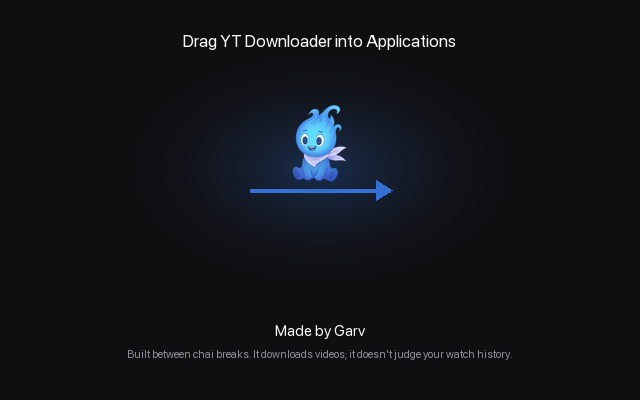
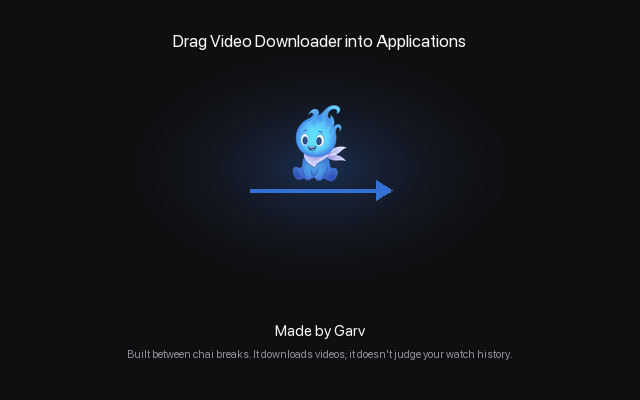
1.4.0: rename to Video Downloader

Changed region(s): [[0.25, 0.09, 0.75, 0.12]]

diff --git a/web/app.js b/web/app.js
@@ -678,7 +678,7 @@ function renderSettings() {
   <div class="card" id="updCard"></div>
   <div class="card about">
     <img src="mascot-still.png" alt="" width="44" height="65">
-    <div><h3>YT Downloader ${esc(sys.version || "")}</h3><p>Made by Garv. Built between chai breaks.</p></div>
+    <div><h3>Video Downloader ${esc(sys.version || "")}</h3><p>Made by Garv. Built between chai breaks.</p></div>
   </div>`;
   if (upd) renderUpdate();
   renderAccount();

diff --git a/web/index.html b/web/index.html
@@ -3,7 +3,7 @@
 <head>
 <meta charset="utf-8">
 <meta name="viewport" content="width=device-width, initial-scale=1">
-<title>Downloader</title>
+<title>Video Downloader</title>
 <link rel="icon" href="icon-64.png">
 <link rel="preconnect" href="https://fonts.googleapis.com">
 <link rel="preconnect" href="https://fonts.gstatic.com" crossorigin>

diff --git a/ytd/appupdate.py b/ytd/appupdate.py
@@ -139,7 +139,7 @@ def _download(asset, dest):
 
 
 def _app_bundle():
-    # .../YT Downloader.app/Contents/MacOS/YT Downloader
+    # .../Video Downloader.app/Contents/MacOS/Video Downloader
     return Path(sys.executable).resolve().parents[2]
 
 
@@ -161,12 +161,14 @@ def _install_mac(dmg, version, work):
     _step("App identity", info.get("CFBundleIdentifier") == BUNDLE_ID, info.get("CFBundleIdentifier", "?"))
     _step("App version", info.get("CFBundleShortVersionString") == version, info.get("CFBundleShortVersionString", "?"))
 
-    target = _app_bundle()
+    old = _app_bundle()
+    # Same folder, the new release's name (handles the YT -> Video Downloader rename).
+    target = old.parent / new.name
     script = work / "swap.sh"
     script.write_text(f"""#!/bin/bash
 while kill -0 {os.getpid()} 2>/dev/null; do sleep 0.2; done
-rm -rf "{target}.old" && mv "{target}" "{target}.old" && ditto "{new}" "{target}" && rm -rf "{target}.old" \\
-  || {{ rm -rf "{target}"; mv "{target}.old" "{target}"; }}
+mv "{old}" "{old}.old" && ditto "{new}" "{target}" && rm -rf "{old}.old" \\
+  || {{ rm -rf "{target}"; mv "{old}.old" "{old}"; }}
 open "{target}"
 rm -rf "{work}"
 """)

diff --git a/packaging/make_art.py b/packaging/make_art.py
@@ -63,7 +63,7 @@ def dmg(scale):
     d.line((250 * scale, y, 390 * scale, y), fill=BLUE + (255,), width=4 * scale)
     d.polygon([(392 * scale, y), (376 * scale, y - 10 * scale), (376 * scale, y + 10 * scale)], fill=BLUE + (255,))
     paste_mascot(img, 84 * scale, 320 * scale, y - 8 * scale)
-    d.text((w / 2, 40 * scale), "Drag YT Downloader into Applications", font=font(17 * scale), fill=(250, 250, 250), anchor="mm")
+    d.text((w / 2, 40 * scale), "Drag Video Downloader into Applications", font=font(17 * scale), fill=(250, 250, 250), anchor="mm")
     d.text((w / 2, 330 * scale), "Made by Garv", font=font(15 * scale, True), fill=(250, 250, 250), anchor="mm")
     d.text((w / 2, 354 * scale), "Built between chai breaks. It downloads videos; it doesn't judge your watch history.",
            font=font(11 * scale), fill=(142, 142, 152), anchor="mm")

diff --git a/ytd/settings.py b/ytd/settings.py
@@ -32,7 +32,7 @@ _lock = threading.Lock()
 # macOS asks permission before any app writes to Downloads, Desktop or
 # Documents; Movies is not on that list, and it is where editors look anyway.
 _DEFAULTS = {
-    "download_dir": str(Path.home() / ("Movies" if sys.platform == "darwin" else "Downloads") / "YT Downloader"),
+    "download_dir": str(Path.home() / ("Movies" if sys.platform == "darwin" else "Downloads") / "Video Downloader"),
     "cookies_browser": "",
 }
 

diff --git a/app.py b/app.py
@@ -42,7 +42,7 @@ def main():
 
     port = free_port("127.0.0.1", args.port)
     url = f"http://127.0.0.1:{port}"
-    print("\n  YT Downloader is running.\n")
+    print("\n  Video Downloader is running.\n")
     print("  It opens in your browser automatically. If it doesn't, open this link:\n")
     print(f"      {url}\n")
     print("  Keep this window open while you use it. Close it (or press Ctrl+C) to stop.\n", flush=True)

diff --git a/desktop.py b/desktop.py
@@ -23,7 +23,7 @@ import webview  # noqa: E402
 
 from ytd.api import app  # noqa: E402
 
-TITLE = "YT Downloader"
+TITLE = "Video Downloader"
 
 
 SAFARI_UA = ("Mozilla/5.0 (Macintosh; Intel Mac OS X 10_15_7) AppleWebKit/605.1.15 "

diff --git a/ytd/__init__.py b/ytd/__init__.py
@@ -1,1 +1,1 @@
-__version__ = "1.3.0"
+__version__ = "1.4.0"

diff --git a/README.md b/README.md
@@ -1,4 +1,4 @@
-# YT Downloader
+# Video Downloader
 
 Desktop app for downloading videos from YouTube, Instagram, Facebook, X, Threads
 and TikTok at an exact resolution, codec and bitrate, and converting them so
@@ -8,10 +8,10 @@ Made by Garv.
 
 ## Install
 
-- **Mac (Apple Silicon):** open `YT Downloader.dmg`, drag the app to Applications.
+- **Mac (Apple Silicon):** open `Video Downloader.dmg`, drag the app to Applications.
   First launch only: macOS blocks apps from unidentified developers. Open
   System Settings → Privacy & Security, scroll down, click **Open Anyway**.
-- **Windows (64-bit):** run `YT Downloader Setup.exe`. If SmartScreen appears,
+- **Windows (64-bit):** run `Video Downloader Setup.exe`. If SmartScreen appears,
   click **More info → Run anyway**. Installs for the current user, no admin needed.
 
 ffmpeg, ffprobe and deno are bundled; nothing else needs installing.
@@ -24,15 +24,15 @@ ffmpeg, ffprobe and deno are bundled; nothing else needs installing.
 3. Output: **Original** saves the streams as-is (MP4 / WebM / MKV).
    **Editor-ready** re-encodes to H.264 or HEVC MP4 for Premiere, Final Cut and
    Resolve. YouTube serves 1440p and 4K only as VP9/AV1, so use this for those.
-4. Files go to `Downloads/YT Downloader` (change in Settings).
+4. Files go to `Movies/Video Downloader` on Mac, `Downloads/Video Downloader` on Windows (change in Settings).
 
 If downloads start failing, Settings → Update yt-dlp, then restart the app.
 Age-restricted and members-only videos need Settings → Browser cookies.
 
 ## Build
 
-- Mac: `packaging/build_mac.sh` → `dist/YT Downloader.dmg`
-- Windows: `packaging/build_windows.ps1` → `dist/YT Downloader Setup.exe`
+- Mac: `packaging/build_mac.sh` → `dist/Video Downloader.dmg`
+- Windows: `packaging/build_windows.ps1` → `dist/Video Downloader Setup.exe`
 - CI: `.github/workflows/build.yml` builds both on every push to `main`.
 
 Dev run without packaging: `uv run app.py` (needs ffmpeg on PATH).

diff --git a/CHANGELOG.md b/CHANGELOG.md
@@ -1,5 +1,9 @@
 # Changelog
 
+## 1.4.0
+- Renamed to Video Downloader. Your settings and sign-in carry over.
+- New downloads go to a "Video Downloader" folder (Movies on Mac, Downloads on Windows) unless you picked a folder in Settings.
+
 ## 1.3.0
 - Sign in to YouTube inside the app (Settings → YouTube account). Fixes "Sign in to confirm you're not a bot" and age-restricted videos, without reading another browser's cookies.
 - A browser-cookie setting that can't be read no longer breaks downloads; the app carries on signed out and says so.
